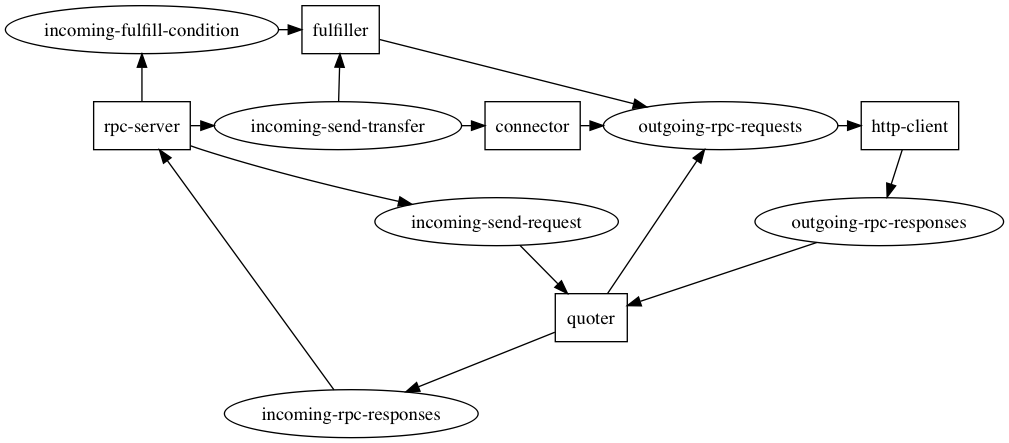
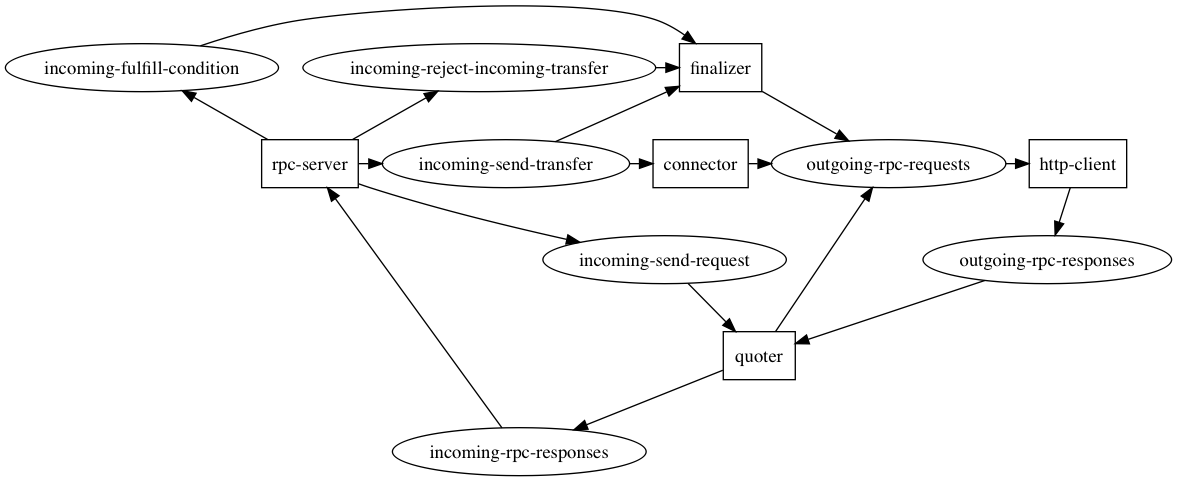
feat: add reject-incoming-transfer to finalizer

diff --git a/src/finalizer.js b/src/finalizer.js
@@ -6,6 +6,10 @@ const incomingFulfill = new kafka.ConsumerGroup({
   host: 'localhost:2181',
   groupId: 'authorizer'
 }, 'incoming-fulfill-condition')
+const incomingReject = new kafka.ConsumerGroup({
+  host: 'localhost:2181',
+  groupId: 'authorizer'
+}, 'incoming-reject-incoming-transfer')
 const incomingTransfer = new kafka.ConsumerGroup({
   host: 'localhost:2181',
   groupId: 'authorizer'
@@ -18,7 +22,7 @@ const sourceTransfers = {}
 incomingTransfer.on('message', async (message) => {
   const { id, body, method, prefix } = JSON.parse(message.value)
   const transfer = body[0]
-  sourceTransfers[transfer.id] = transfer
+  sourceTransfers[transfer.id] = { prefix, transfer }
 })
 
 incomingFulfill.on('message', async (message) => {
@@ -26,11 +30,13 @@ incomingFulfill.on('message', async (message) => {
   const transferId = body && body[0]
   console.log('process incoming-fulfill-condition', id)
 
-  const transfer = sourceTransfers[transferId]
-  if (!transfer) {
+  const cachedSource = sourceTransfers[transferId]
+  if (!cachedSource) {
     console.error('no transfer found for fulfillment', id, 'transferId:', transferId)
+    return
   }
 
+  const transfer = cachedSource.transfer
   const fulfillment = body && body[1]
 
   if (!transfer || !fulfillment) {
@@ -57,6 +63,47 @@ incomingFulfill.on('message', async (message) => {
     }])
   } catch (err) {
     console.error('error producing to outgoing-fulfill-condition', id, err)
+  }
+
+  delete sourceTransfers[transferId]
+})
+
+incomingReject.on('message', async (message) => {
+  const { id, body, method, prefix } = JSON.parse(message.value)
+  console.log('process incoming-reject-incoming-transfer', id)
+
+  const transferId = body && body[0]
+  const source = sourceTransfers[transferId]
+
+  if (!source) {
+    console.error('no source transfer found for rejection', id, 'transferId:', transferId)
+    return
+  }
+
+  const sourcePrefix = source.prefix
+  const sourceTransfer = source.transfer
+  const reason = body && body[1]
+
+  if (sourcePrefix === prefix) {
+    console.log('peer tried to reject outgoing transfer, transferId=', transferId)
+    return
+  }
+
+  console.log('rejecting', transferId)
+
+  try {
+    await util.promisify(producer.send.bind(producer))([{
+      topic: 'outgoing-rpc-requests',
+      messages: Buffer.from(JSON.stringify({
+        id,
+        prefix: sourcePrefix,
+        body: [transferId, reason],
+        method
+      })),
+      timestamp: Date.now()
+    }])
+  } catch (err) {
+    console.error('error producing to outgoing-rpc-requests', id, err)
   }
 
   delete sourceTransfers[transferId]

diff --git a/test/rpc-simulator.js b/test/rpc-simulator.js
@@ -1,0 +1,71 @@
+const kafka = require('kafka-node')
+const EventEmitter = require('events')
+const uuid = require('uuid')
+const util = require('../src/util')
+
+const peers = require('../config/peers')
+const client = new kafka.Client('localhost:2181')
+const producer = new kafka.HighLevelProducer(client)
+const produce = util.promisify(producer.send.bind(producer))
+
+client.on('error', error => console.error(error))
+producer.on('error', error => console.error(error))
+
+function produceSendTransfer ({ id, body, prefix }) {
+  return produce([{
+    topic: 'incoming-send-transfer',
+    messages: Buffer.from(JSON.stringify({ id, body, prefix, method: 'send_transfer' })),
+    timestamp: Date.now()
+  }])
+}
+
+function produceFulfillCondition ({ id, method, body, prefix }) {
+  return produce([{
+    topic: 'incoming-fulfill-condition',
+    messages: Buffer.from(JSON.stringify({ id, body, prefix, method })),
+    timestamp: Date.now()
+  }])
+}
+
+function produceRejectIncomingTransfer ({ id, method, body, prefix }) {
+  return produce([{
+    topic: 'incoming-reject-incoming-transfer',
+    messages: Buffer.from(JSON.stringify({ id, body, prefix, method })),
+    timestamp: Date.now()
+  }])
+}
+
+function produceSendRequest ({ id, method, body, prefix }) {
+  return produce([{
+    topic: 'incoming-send-request',
+    messages: Buffer.from(JSON.stringify({ id, body, prefix, method })),
+    timestamp: Date.now()
+  }])
+}
+
+client.once('ready', async () => {
+  console.log('starting')
+  while (1) {
+    await produceSendTransfer({
+      id: '9f7c7375-881e-a577-2d44-39efc941a770',
+      prefix: 'test.east.',
+      body: [ {
+        id: "8ef123cb-84cb-0724-153e-f23c1af5e997",
+        executionCondition: "U/M41WQx4Xn/kyLRFm/7WaMrHInUBORdawXDMTGw8QA=",
+        to: "test.east.client",
+        amount: "10",
+        expiresAt: "2017-07-31T00:00:00Z",
+        ilp: "ARYAAAAAAAAAAQt0ZXN0LnNvdXRoLgAA"
+      } ]
+    }).catch((e) => console.log(e))
+    await produceFulfillCondition({
+      id: '9f7c7375-881e-a577-2d44-39efc941a770',
+      prefix: 'test.east.',
+      method: 'fulfill_condition',
+      body: [
+        "8ef123cb-84cb-0724-153e-f23c1af5e997",
+        "C+uUsltMkbKT0XPCgekOKeLajvMlvrI0vaSmqhWQzTY="
+      ]
+    }).catch((e) => console.log(e))
+  }
+})

diff --git a/src/rpc-server.js b/src/rpc-server.js
@@ -53,6 +53,14 @@ function produceFulfillCondition ({ id, method, body, prefix }) {
   }])
 }
 
+function produceRejectIncomingTransfer ({ id, method, body, prefix }) {
+  return produce([{
+    topic: 'incoming-reject-incoming-transfer',
+    messages: Buffer.from(JSON.stringify({ id, body, prefix, method })),
+    timestamp: Date.now()
+  }])
+}
+
 function produceSendRequest ({ id, method, body, prefix }) {
   return produce([{
     topic: 'incoming-send-request',
@@ -86,9 +94,14 @@ router.post('/rpc', async (ctx) => {
   switch (method) {
     case 'send_transfer':
       await produceSendTransfer({ id, body, prefix, method })
+      ctx.body = true
       break
     case 'fulfill_condition':
       await produceFulfillCondition({ id, body, prefix, method })
+      ctx.body = true
+      break
+    case 'reject_incoming_transfer':
+      await produceRejectIncomingTransfer({ id, body, prefix, method })
       ctx.body = true
       break
     case 'send_request':
@@ -99,6 +112,7 @@ router.post('/rpc', async (ctx) => {
         ctx.body = response.error.body
         return
       }
+      console.log('quote response', response)
       ctx.body = response.body
       break
     case 'get_info':

diff --git a/index.js b/index.js
@@ -2,4 +2,4 @@ require('./src/rpc-server')
 require('./src/connector')
 require('./src/http-client')
 require('./src/quoter')
-require('./src/fulfiller')
+require('./src/finalizer')

diff --git a/README.md b/README.md
@@ -9,7 +9,7 @@
 ### Back end
 
 - [x] Combine RPC Server and Authorizer
-- [ ] Add rejector (passes back error messages)
+- [x] Add rejector (passes back error messages)
 - [ ] Add fixer.io + coinmarketcap for exchange rates (and tag ledgers with currency codes)
 - [ ] Implement route broadcaster for CCP
 - [ ] Dynamic routing table (Kafka? Zookeeper? Redis?)
